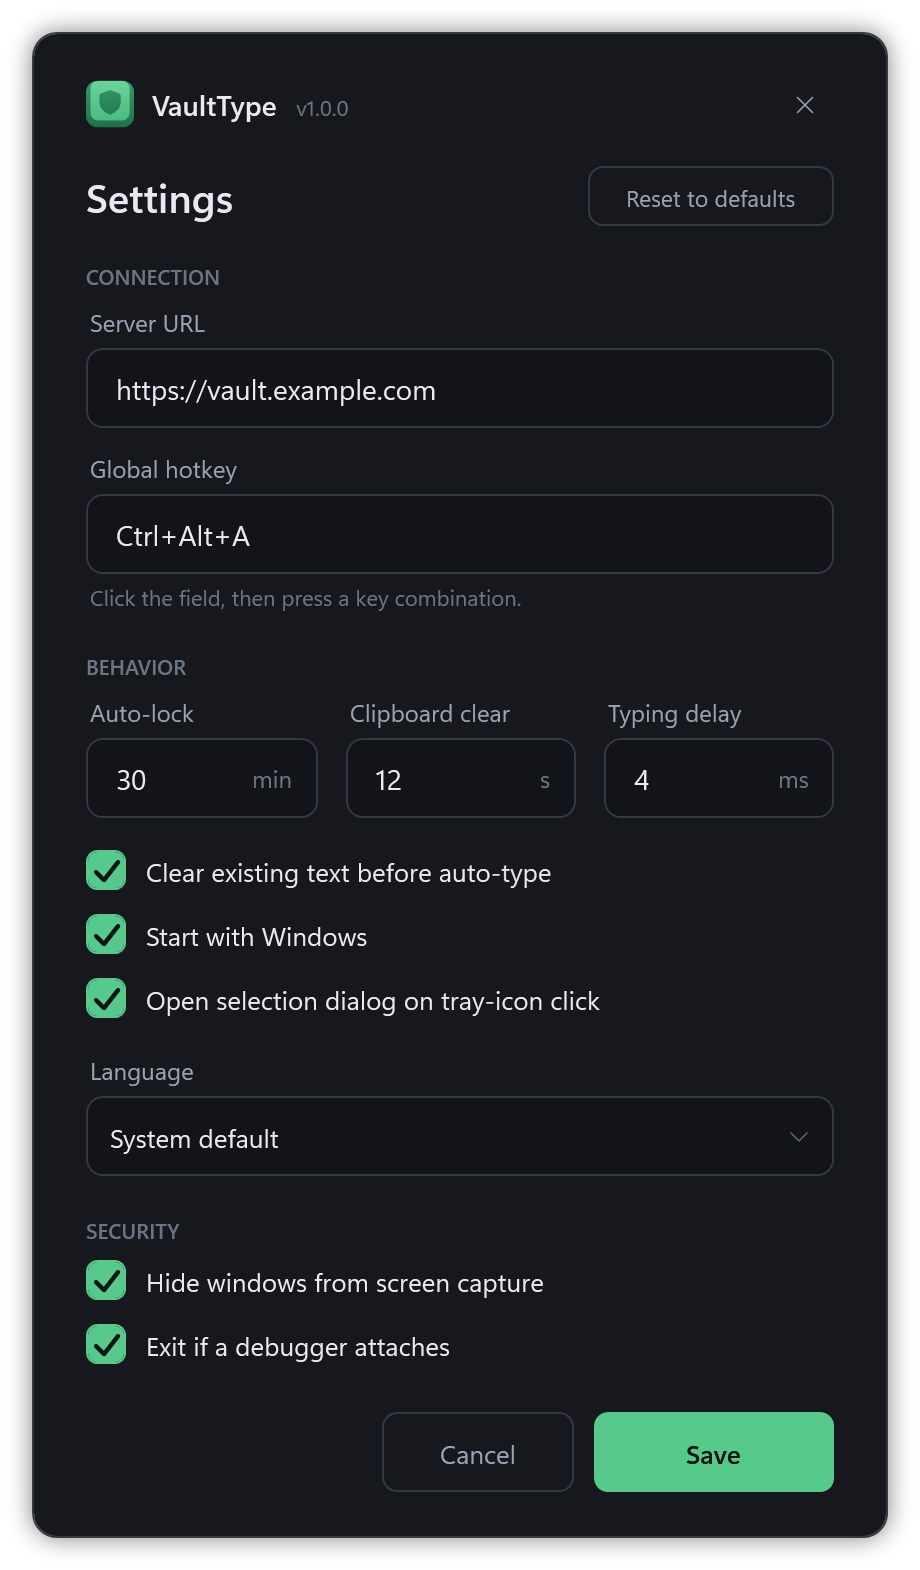
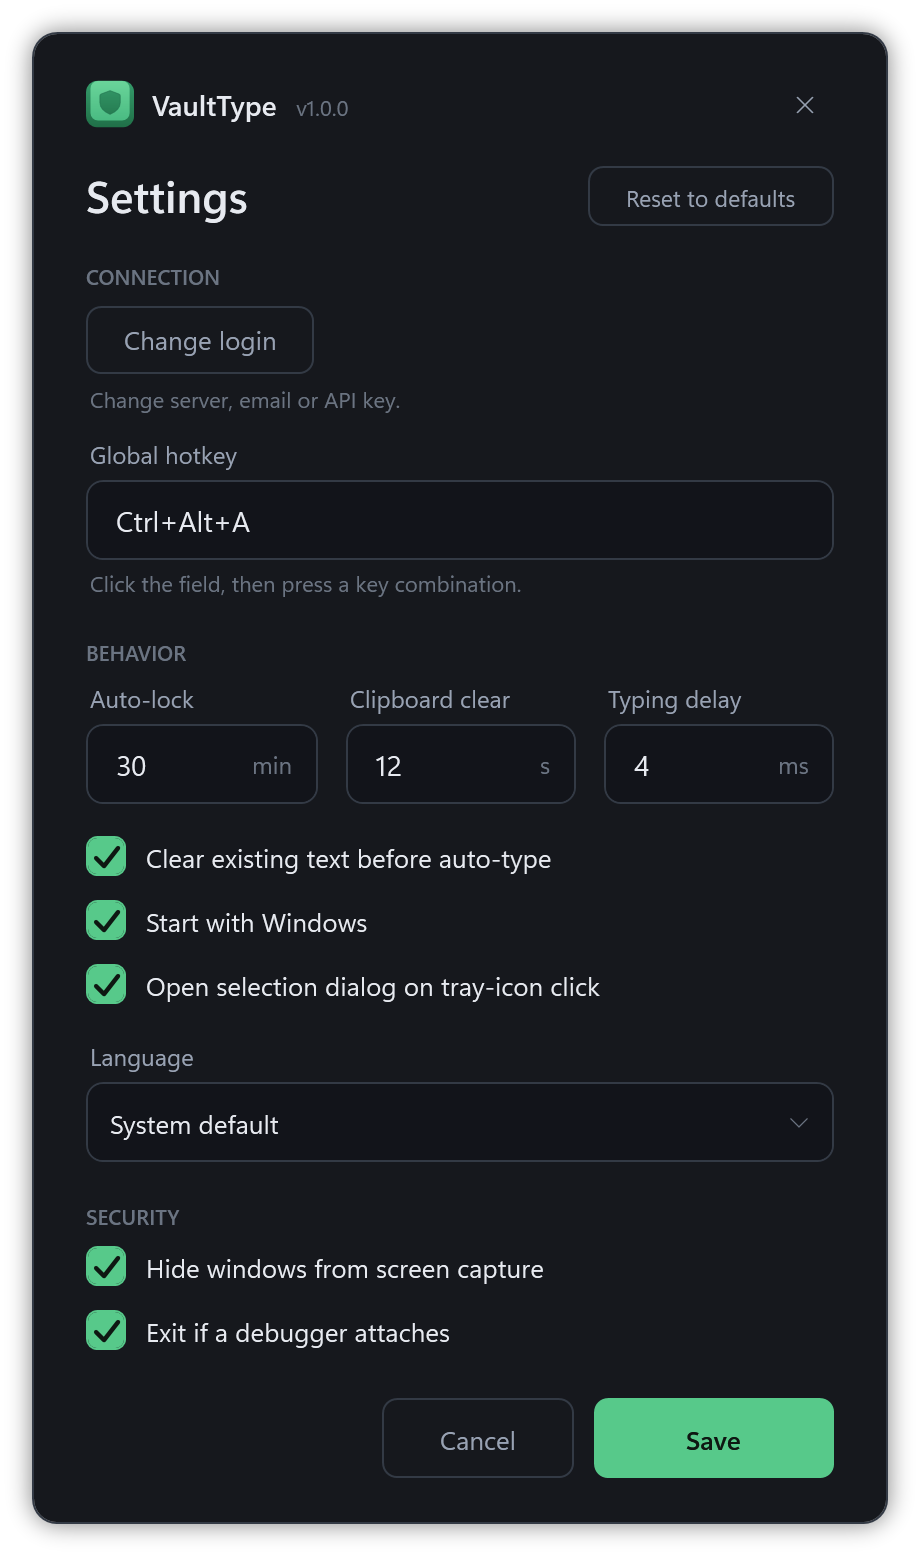
docs: expand the screenshots gallery and installation guide

diff --git a/README.md b/README.md
@@ -76,17 +76,27 @@ search the whole vault at any time. Every window shares the same clean, dark int
   <tr>
     <td colspan="2" align="center">
       <img src="assets/screenshots/picker.png" width="420" alt="VaultType entry picker" /><br />
-      <sub><b>Entry picker</b> - matches for the active window come first; start typing to search the whole vault.</sub>
+      <sub><b>Entry picker</b> - matches for the active window come first; start typing to search the whole vault.</sub><br /><br />
+    </td>
+  </tr>
+  <tr>
+    <td align="center" valign="top" width="50%">
+      <img src="assets/screenshots/signin-vaultwarden.png" width="380" alt="VaultType sign-in (Vaultwarden)" /><br />
+      <sub><b>Vaultwarden sign-in</b> - pick the account type, then server URL, email and master password.</sub><br /><br />
+    </td>
+    <td align="center" valign="top" width="50%">
+      <img src="assets/screenshots/signin-bitwarden.png" width="380" alt="VaultType sign-in (Bitwarden.com)" /><br />
+      <sub><b>Bitwarden.com sign-in</b> - API-key login by default (avoids the CAPTCHA); no server field.</sub><br /><br />
     </td>
   </tr>
   <tr>
     <td align="center" valign="top" width="50%">
       <img src="assets/screenshots/unlock.png" width="380" alt="VaultType unlock prompt" /><br />
-      <sub><b>Unlock</b> - the master password only lives in locked, non-paged memory, then is discarded.</sub>
+      <sub><b>Unlock</b> - on later launches just the master password (locked memory, then discarded).</sub><br /><br />
     </td>
     <td align="center" valign="top" width="50%">
       <img src="assets/screenshots/settings.png" width="380" alt="VaultType settings window" /><br />
-      <sub><b>Settings</b> - hotkey, timeouts, language and the security-hardening toggles.</sub>
+      <sub><b>Settings</b> - hotkey, timeouts, language and the security-hardening toggles.</sub><br /><br />
     </td>
   </tr>
 </table>
@@ -137,13 +147,28 @@ VaultType **downloads it automatically** from the official source on first run a
 
 ## Installation
 
-1. Download **`VaultType.exe`** from the [latest release](../../releases/latest) - one
-   self-contained file, nothing else to install.
-2. Run it. Windows may show a SmartScreen warning because the `.exe` isn't code-signed (there is
-   currently no code-signing certificate for this project) - click *More info -> Run anyway*.
-3. On first launch it fetches the official Bitwarden CLI, then asks for your server URL and
-   master password.
-4. Optional: enable *Start with Windows* from the tray menu.
+Grab either build from the [latest release](../../releases/latest):
+
+- **Installer** (recommended) - `VaultType-<version>-Setup.exe`. Installs VaultType into your user
+  profile with a Start-menu shortcut and an uninstaller; no admin rights needed. You can delete the
+  downloaded setup afterwards.
+- **Portable** - `VaultType-<version>-win-x64.exe`. A single self-contained file you run directly;
+  keep it somewhere permanent (not your Downloads folder, where it's easy to delete by accident).
+
+Then, either way:
+
+1. Run it. Windows may show a SmartScreen warning because it isn't code-signed (there is currently
+   no code-signing certificate for this project) - click *More info -> Run anyway*.
+2. On first launch it fetches the official Bitwarden CLI, then shows the sign-in window - pick
+   **Vaultwarden** or **Bitwarden.com** and enter your details.
+3. Optional: enable *Start with Windows* from the tray menu.
+
+> [!NOTE]
+> **Signing in to bitwarden.com uses a personal API key by default.** The Bitwarden CLI can't
+> solve bitwarden.com's login CAPTCHA, so an API key is the reliable way in (it also avoids the
+> 2FA prompt). Create one in the Bitwarden web vault under *Account settings -> Security -> Keys
+> -> View API key*, then paste the client ID and secret. **Self-hosted Vaultwarden** has no such
+> CAPTCHA, so it simply uses your email and master password.
 
 ## Configuration
 
